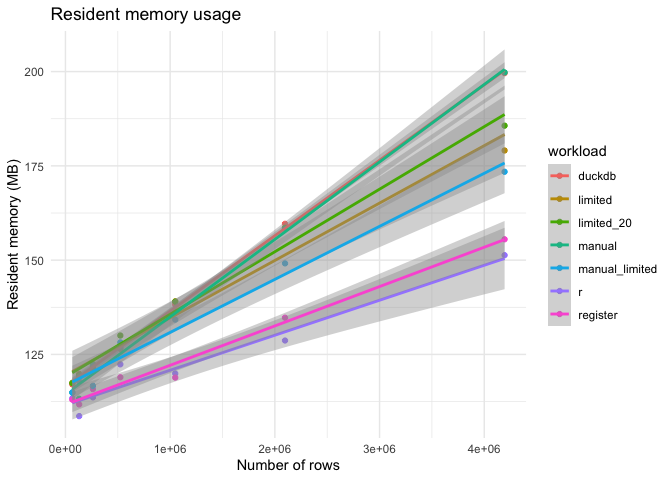
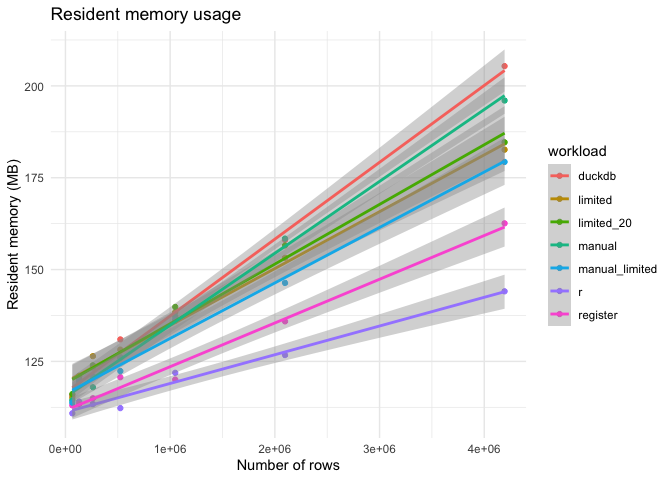
Even with tempdb

diff --git a/README.md b/README.md
@@ -32,33 +32,33 @@ Running variants of the code in `setup.R`, by `run_setup.R`:
     #> 
     #> Coefficients:
     #>            (Intercept)         workloadlimited      workloadlimited_20  
-    #>                140.243                  -2.672                  -1.467  
+    #>                141.308                  -3.578                  -2.989  
     #>         workloadmanual  workloadmanual_limited               workloadr  
-    #>                 -1.402                  -6.752                 -17.676  
+    #>                 -2.750                  -7.194                 -20.835  
     #>       workloadregister  
-    #>                -16.152
+    #>                -15.502
 
 ### Overhead
 
     #> # A tibble: 7 × 5
     #>   workload       mem_min mem_max mem_delta overhead
     #>   <chr>            <dbl>   <dbl>     <dbl>    <dbl>
-    #> 1 r                 113.    151.      37.9     1   
-    #> 2 register          113     156.      42.5     1.12
-    #> 3 manual_limited    115.    173.      58.5     1.54
-    #> 4 limited           117.    179.      61.6     1.63
-    #> 5 limited_20        117.    186.      68.2     1.80
-    #> 6 duckdb            117.    200.      82.5     2.18
-    #> 7 manual            115.    200.      84.9     2.24
+    #> 1 r                 111.    144.      33.2     1   
+    #> 2 register          113.    163.      49.5     1.49
+    #> 3 manual_limited    114.    179.      65.5     1.97
+    #> 4 limited           115.    183.      67.5     2.03
+    #> 5 limited_20        116.    185.      68.5     2.06
+    #> 6 manual            114.    196.      81.6     2.46
+    #> 7 duckdb            116.    205.      89.6     2.70
 
 ### Conclusion
 
 - Registering the data frame consumes a bit of memory, but not that
   much.
-- The `setup-manual.R` script is equovalent to `setup.R` in terms of
+- The `setup-manual.R` script is equivalent to `setup.R` in terms of
   memory usage, but uses functions at a lower level compared to
   `dbWriteTable()`.
 - The `CREATE TABLE` statement in `setup-manual.R` seems to be
   responsible for the memory overhead.
 - Despite the limit of 10MB DuckDB memory in `setup-manual-limited.R`,
-  the memory overhead is 25MB.
+  the memory overhead is over 25MB.
